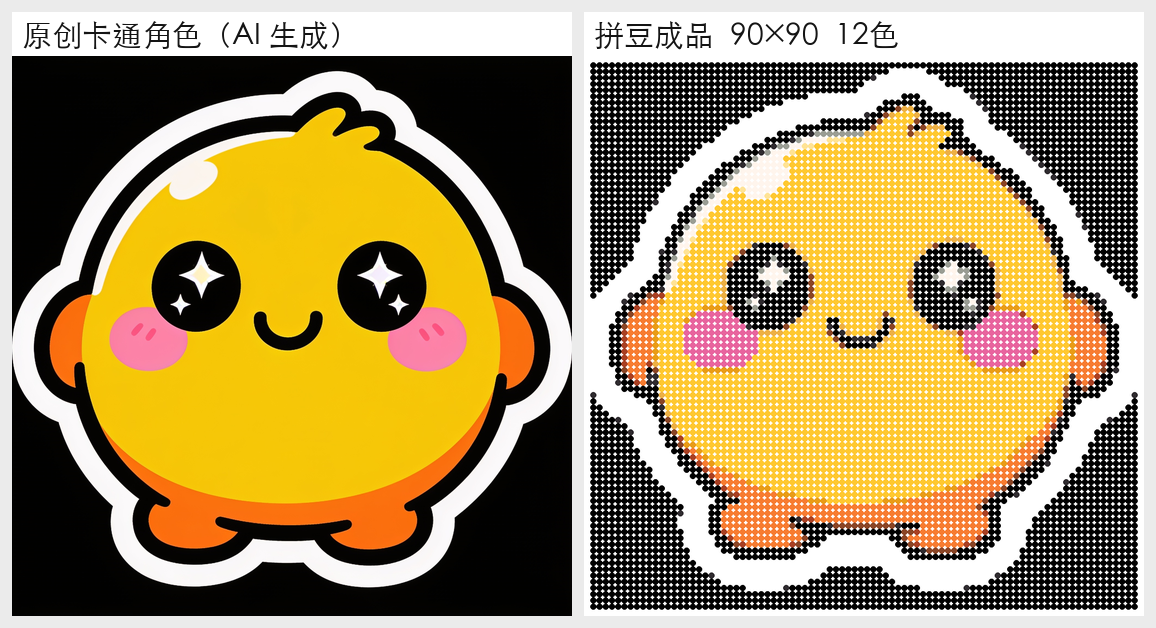
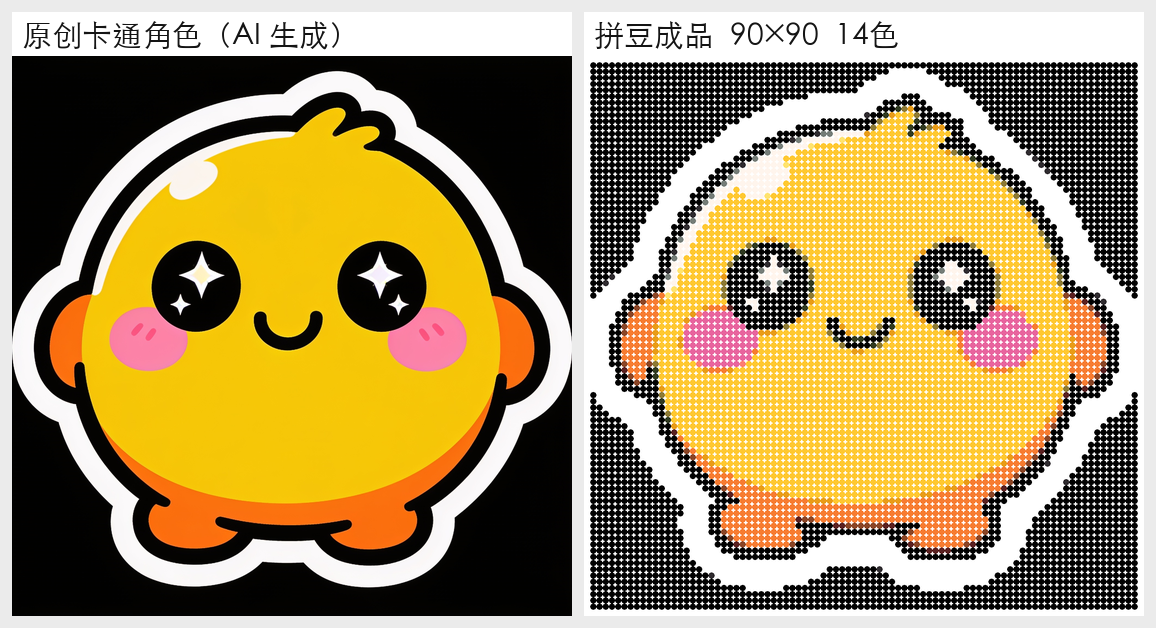
成品预览改紧凑圆豆+白底（修发淡发糊）；展示图用保细节模式重渲

diff --git a/beadgen.py b/beadgen.py
@@ -342,20 +342,26 @@ def render(grid, used, cell=22, show_grid=True, show_ids=True):
     return canvas, bead_to_num
 
 
-def render_preview(grid, cell=16, bg=(245, 243, 237)):
-    """成品效果预览：用圆豆子渲染（无数字、无网格），一眼看出像不像那个物品。"""
+def render_preview(grid, cell=16, bg=(255, 255, 255), style="round"):
+    """成品效果预览（无数字、无网格）。
+    style='round' 紧凑圆豆（缝隙极小+白底，锐利鲜亮）；'solid' 实心像素方块。
+    旧版圆豆缝隙大+米色底，大片纯色会显得发淡发糊——这里默认改成紧凑白底。"""
     h, w = grid.shape
     img = Image.new("RGB", (w * cell, h * cell), bg)
     d = ImageDraw.Draw(img)
-    pad = max(1, cell * 0.10)
+    pad = max(0, cell * 0.04)
     for y in range(h):
         for x in range(w):
             b = grid[y, x]
             if b < 0:
                 continue
-            d.ellipse([x * cell + pad, y * cell + pad,
-                       (x + 1) * cell - pad, (y + 1) * cell - pad],
-                      fill=PALETTE[NAMES[b]])
+            col = PALETTE[NAMES[b]]
+            if style == "solid":
+                d.rectangle([x * cell, y * cell, x * cell + cell - 1, y * cell + cell - 1],
+                            fill=col)
+            else:
+                d.ellipse([x * cell + pad, y * cell + pad,
+                           (x + 1) * cell - pad, (y + 1) * cell - pad], fill=col)
     return img
 
 